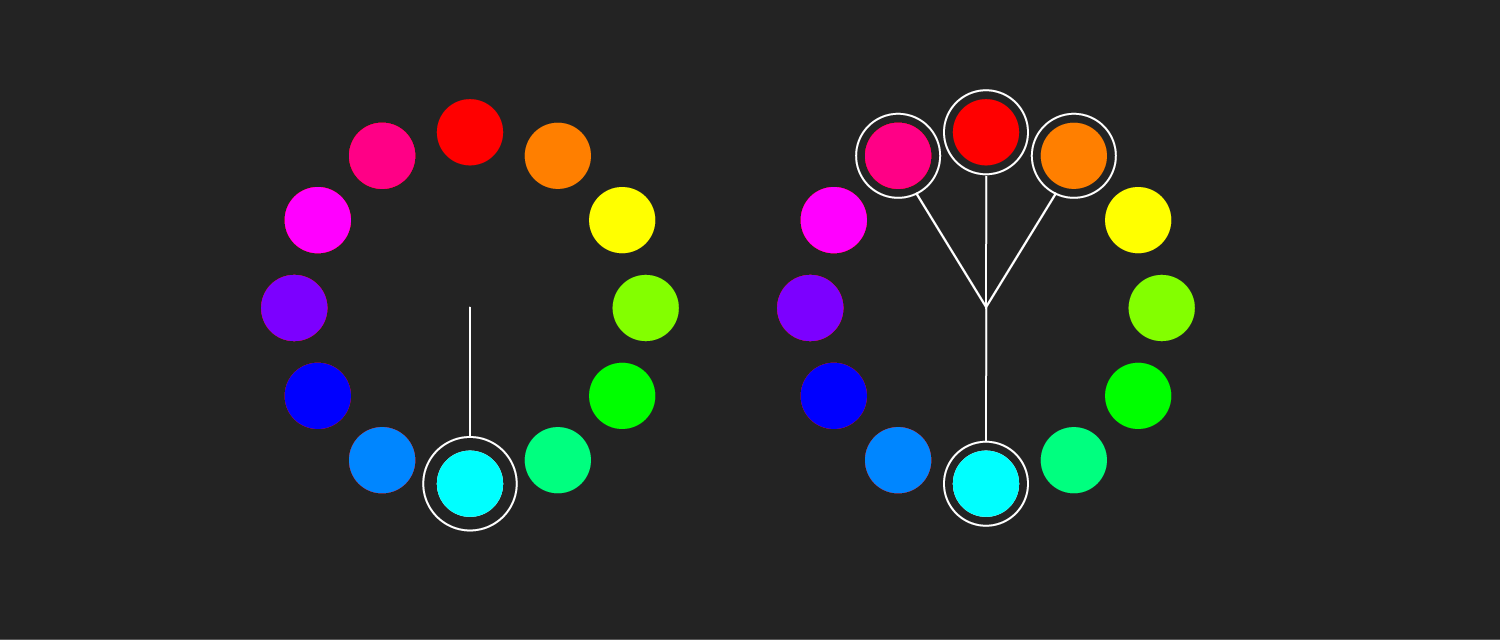
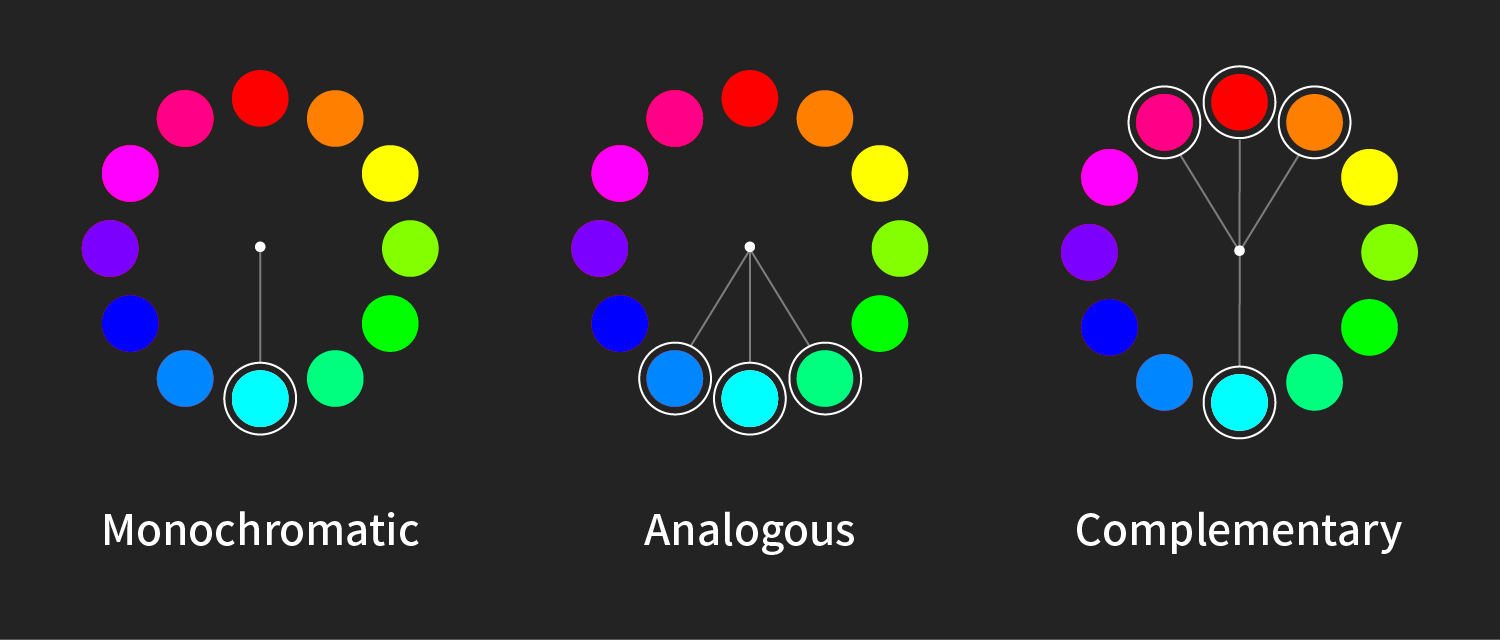
서비스 디자인 내용 업데이트

diff --git a/color.html b/color.html
@@ -55,34 +55,42 @@
             <div class="article-title">
                 색</div>
             <div class="article-h1">
-                사과가 엄청난 속도로 눈 앞을 지나가면 머릿속에는 빨간 뭔가가 지나갔다고 느낄 것입니다. 이렇듯 눈은 색을 가장 먼저 인지합니다. 그만큼 중요합니다. 색을 잘못 다루면 사용자의 머릿속에 얼룩덜룩한 인상이 남을 수도 있습니다. 보통 서비스에서 사용할 색으로 아래 네가지를 고릅니다. 이 종류만으로 디자인할 수도 있지만 페이지에서 요구되는 것들이 많아질 때 디자인이 어려워집니다. 색을 어떻게 다뤄야할까요?
+                색은 눈이 가장 빠르게 받아들이는 시각 언어입니다. 사과가 엄청난 속도로 눈 앞을 지나가면 머릿속에는 불그스름한 무언가가 지나갔다고 기억하듯이 말입니다. 서비스에서는 특정 요소를 강조하거나 다른 요소와 확실하게 구분해야 할 필요가 있을 때 사용합니다.
             </div>
             <img class="article-img" src="  ./img/design-system/color/color-main@2x.png">
 
             <div class="article-title">
+            서비스에서 사용되는 색</div>
+            <div class="article-h1">
+           서비스에서는 기본적으로 <b>주색 Primary Color, 보조색 Secondary Color, 흑백 Black, White</b> 를 사용합니다. 서비스의 성격에 따라 더 다양한 색상 조합을 정하기도 합니다. 서비스에서 사용할 색은 주로 브랜드 그래픽 시스템을 따릅니다.
+            </div>
+            <img class="article-img" src="./img/design-system/color/brand@2x.png">
+             <div class="article-h1">
+                <ul>
+                    <li><b>주색 Primary:</b> 색이 필요한 곳에 가장 많이 사용할 주요 색</li>
+                    <li><b>보조색 Secondary:</b> 특정 페이지에서 강조해야할 필요가 있을 때를 위한 색 </li>
+                    <li><b>흑백 Black&White:</b> 주로 배경과 글에 쓰이며, 브랜드 내의 가장 밝은 색과 가장 어두운 색</li>
+                </ul>
+            </div>
+            
+            <div class="article-title">
             색 정하기</div>
             <div class="article-h1">
+             주색를 정한 뒤 색상환을 기준으로 미리 사용하게될 색을 정합니다. 그래픽 디자인 툴에서 색상을 조정하는 방식에 맞추어 12색상환을 사용합니다. 
             </div>
             <img class="article-img" src="./img/design-system/color/color-pick@2x.png">
              <div class="article-h1">
                 <ul>
-                    <li><b>Primary:</b> 브랜드 컬러</li>
-                    <li><b>Secondary:</b> 브랜드 컬러만으로 해결이 안될 때를 위한 색상<br>(Primary와 확실하게 구분이 되어야함)</li>
-                    <li><b>B&W:</b> 주로 배경과 글에 쓰이며, 브랜드 내의 가장 밝은 색과 가장 어두운 색</li>
+                    <li><b>단색 Monochromatic:</b> 주색으로 사용될 색입니다.</li>
+                    <li><b>유사색 Analogous:</b> 두드러지지 않으면서 주요색과 구분이 되야할 때 사용할 색입니다. </li>
+                    <li><b>보색 Complemntary</b> 보조색으로 주요색과 확연하게 구분이 되야합니다.</li>
                 </ul>
             </div>
             
-             <div class="article-title">
-            사진에서 색 고르기</div>
-            <div class="article-h1">
-            </div>
-            <img class="article-img" src="./img/design-system/color/elemental@2x.png">
-            
-
             <div class="article-title">
                 색의 요소</div>
             <div class="article-h1">
-                색을 바꿔보기 전에 스크린에서 색이 어떻게 쓰이는지 궁금하네요. 그냥 "발광 초록"이라고 한다고 표시되는게 아니니까요. 가장 직관적으로 구분할 수 있는 것은 <a>HSB</a> 입니다. Hue(색조), Saturation(채도), Brightness(밝기)로 우리가 실제로 경험하는 색의 변화를 다루기에 가장 편한 개념입니다. 실제 코드에서는 편의를 위해 Hex와 RGBA로 작업하겠지만, 컬러 팔레트를 정할 때는 HSB로 하는게 편할 것 같네요.
+                가장 직관적으로 구분할 수 있는 것은 <a>HSB</a> 입니다. Hue(색조), Saturation(채도), Brightness(밝기)로 우리가 실제로 경험하는 색의 변화를 다루기에 가장 편한 개념입니다. 실제 코드에서는 편의를 위해 Hex와 RGBA로 작업하지만, 컬러 팔레트를 정할 때는 HSB로 하는게 편합니다.
             </div>
 
             <img class="article-img" src="  ./img/design-system/color/elemental@2x.png">
@@ -91,34 +99,34 @@
             <div class="article-title">
                 한가지 색 다양하게 쓰기</div>
             <div class="article-h1">
-                여러 색을 사용하고 싶은데 그렇다고 무지개 색을 쓸 수는 없을 것 같습니다. 변화가 너무 많은건 눈이 피곤하니까 가능한 적게 변했으면 좋겠네요. 눈에 가장 부담이 안가는 밝기를 조절해봐야겠습니다. 그래픽 툴에서 HSB 중 B를 조절해봅니다.
+                여러 색을 사용하고 싶은데 그렇다고 무지개 색을 쓰기는 어렵습니다. 색조의 변화는 눈에 많은 부담을 주기 떄문에 되도록 <b>밝기 - 채도 - 색조</b> 순서로 다양한 색을 정하는 것이 좋습니다. 먼저 눈에 가장 부담이 안가는 밝기를 조절해봅니다.
             </div>
 
             <img class="article-img" src="./img/design-system/color/variation@2x.png">
 
             <div class="article-h1">
-                명도 차이만으로도 쓸 수 있는 색이 늘어났네요! 바로 디자인에 적용해도 큰 문제는 없지만 더 자연스럽고 풍부한 느낌을 주고 싶네요. Brightness 는 조절했으니까 Hue 와 Satuation을 조절해야할 것 같네요. 완전히 다른 색상으로 느껴지지 않는 범위 안에서 두 수치를 조절해봤습니다.
+                밝기 차이만으로도 쓸 수 있는 색이 늘어났습니다. 바로 디자인에 적용해도 큰 문제는 없지만 더 자연스럽고 풍부한 느낌을 주고 싶네요. 밝기는 조절했으니까 색조와 채도를 조절해야할 것 같네요. 완전히 다른 색조으로 느껴지지 않는 범위 안에서 두 수치를 조절해봤습니다.
             </div>
 
            <img class="article-img" src="./img/design-system/color/variation2@2x.png">
 
             <div class="article-h1">
-                더 풍부한 느낌이 듭니다! Brightness는 어떻게 바꿔야 하는지 직관적으로 알겠는데 Hue와 Saturation은 색이 밝기에 어떤 영향을 끼칠까요?
+                더 풍부한 느낌이 듭니다! 밝기는 직관적으로 밝고 어둡게 하면 되는데 색조와 채도는 색의 변화에 어떤 영향을 끼칠까요?
             </div>
 
             <div class="article-title">
                 자연에서의 색 변화</div>
 
             <div class="article-h1">
-                스크린이 아닌 자연에서는 빛이 강해지면 색이 사라집니다.(사과 바로 앞에 손전등을 댔을 때를 상상해보세요.) 색은 물질에 빛이 반사되서 보이는데 눈이 구분할 수 있는 범위를 넘어 반사량이 너무 많으면 하얗게, 반사량이 너무 적으면 어둡게 보입니다. 엄청 어려워 보이는데 결론은 밝아지면 [채도 Down, 명도 Up] 어두워지면 [채도 Up, 명도 Down]인 것입니다.
+                실제 자연에서는 빛이 강해지면 물체의 채도가 약해집니다.(사과 바로 앞에 손전등을 댔을 때를 상상해보세요.) 색은 물질에 빛이 반사되서 보이는데 눈이 구분할 수 있는 범위를 넘어 반사량이 너무 많으면 하얗게, 반사량이 너무 적으면 어둡게 보입니다. 물체의 색이 밝아지면 <b>채도 감소, 밝기 증가</b> 어두워지면 <b>채도 증가, 밝기 감소</b>입니다.
             </div>
             <img class="article-img" src="./img/design-system/color/principle@2x.png">
             <img class="article-img" src="./img/design-system/color/reflection_absorption@2x.png">
 
             <div class="article-title">
-                색상 자체의 밝기</div>
+                색조 자체의 밝기</div>
             <div class="article-h1">
-                채도와 명도가 밝기에 어떻게 영향을 끼치는지는 알겠는데 색상 자체의 밝기를 알기가 쉽지 않습니다. 노란색은 밝아서 흰색 바탕에 쓰기 힘들고 파랑색은 어두워 검은 배경에 쓰기 어려운 것 정도는 알겠는데 다른 색들은 어떻게 해야할지 잘 모르겠네요. 스크린에서 보이는 색상 자체의 밝기는 어떻게 알 수 있을까요?
+                채도와 명도가 밝기에 어떻게 영향을 끼치는지는 알겠는데 색조 자체의 밝기를 알기가 쉽지 않습니다. 노란색은 밝아서 흰색 바탕에 쓰기 힘들고 파랑색은 어두워 검은 배경에 쓰기 어려운 것 정도는 알겠는데 다른 색들은 어떻게 해야할지 잘 모르겠네요. 스크린에서 보이는 색조 자체의 밝기는 어떻게 알 수 있을까요?
             </div>
 
             <img class="article-img" src="./img/design-system/color/hue-luminosity@2x.png">
@@ -139,8 +147,8 @@
             <div class="article-h1">
                 기존 색조에서 벗어나지 않으면서 다양한 변화를 주기 위한 몇가지 규칙을 알게되었습니다.<br>
                 <ul>
-                    <li>색을 밝게: CMY 계열 색상으로 움직이고 채도를 줄이고 밝기를 늘린다.</li>
-                    <li>색을 어둡게: RGB 계열 색상으로 움직이고 채도를 늘리고 밝기가 줄인다.</li>
+                    <li>색을 밝게: CMY 계열 색조으로 움직이고 채도를 줄이고 밝기를 늘린다.</li>
+                    <li>색을 어둡게: RGB 계열 색조으로 움직이고 채도를 늘리고 밝기가 줄인다.</li>
                 </ul>
             </div>
 
@@ -151,10 +159,11 @@
 
             <div class="article-h1">
                 <ul>
-                    <li>500px 영역과 50px 에서의 자극량은 매우 다릅니다.이것은 어떻게 알 수 있을까요?</li>
-                    <li>어떤 색 옆에 인접해 있느냐에 따라 색이 주는 느낌이 매우 다릅니다. 이 차이는 어떻게 알 수 있을까요?</li>
-                    <li>AR과 VR 에서는 공간감이 주된 변화일 것입니다. 공기 원근과 같은 공간과 색온도에 의한 색 변화는 어떻게 일어날까요? 이런 요소는 인터페이스에 어떤 영향을 끼칠까요?</li>
                     <li>브랜딩 영역에서 색은 어떻게 해석되고 있을까요? 사람들은 색을 어떤 의미로 받아들일까요?</li>
+                    <li>안드로이드, Mac, 윈도우마다 같은 색이 다르게 보이는 이유는 무엇일까요?</li>
+                    <li>500px 영역과 50px 에서의 자극량은 다릅니다.이것은 어떻게 알 수 있을까요?</li>
+                    <li>어떤 색 옆에 인접해 있느냐에 따라 색이 주는 느낌이 다릅니다. 이 차이는 어떻게 알 수 있을까요?</li>
+                    <li>AR과 VR 에서는 공간감이 주된 변화일 것입니다. 공기 원근과 같은 공간과 색온도에 의한 색 변화는 어떻게 일어날까요? 이런 요소는 인터페이스에 어떤 영향을 끼칠까요?</li>  
                 </ul>
             </div>
 
@@ -179,9 +188,6 @@
 
 
             </div>
-
-
-
         </div>
     </div>
 

diff --git a/typography.html b/typography.html
@@ -54,7 +54,7 @@
         <div class="article-title">
             서체</div>
         <div class="article-h1">
-            문자는 언어만 같다면 가장 빠르고 정확하게 정보를 전달할 수 있습니다. 물체나 풍경 같은 것들은 아이콘이나 그림으로도 정보를 전달하기 좋지만 행동이나 개념에 대해 전달할 때는 문자가 더 효율적입니다. 시간과 공간의 제약이 많은 스크린에서는 문자는 쓸모가 많습니다! 서비스에서 사용되는 서체는 어떻게 다뤄야할까요?
+            문자는 같은 문화권이라면 다른 시각 언어보다 구체적이고 정확하게 정보를 전달하는 언어입니다. 물체나 풍경 같은 것들은 아이콘이나 이미지로 알려주는게 좋을 수 있지만, 행동이나 개념을 알려줄 때는 문자가 더 효율적입니다. 의미 전달이 확실하기 때문에 가장 많이 쓰이는 시각 요소입니다.
         </div>
 
         <img class="article-img" src="  ./img/design-system/typography/hangul_typography@2x.png">
@@ -62,74 +62,85 @@
         <div class="article-title">
             서체 고르기</div>
         <div class="article-h1">
-            스크린에서 쓰이는 서체는 언제 어디서나 사용이 가능해야 합니다. iOS, Android, Watch, Web 등 다양한 스크린에 적용이 가능한 서체가 적절한데 현실적으로 사용가능한 한글 서체는 OS 기본 서체인 애플 SD 고딕 네오, 본고딕과 오픈 소스인 나눔 글꼴, 스포카 한 산스 정도입니다.(본고딕,Source Han Sans, Noto Sans 는 모든 같은 서체입니다.)
+            스크린에서 쓰이는 서체는 어디에나 쓸 수 있어야 합니다. 스마트폰, 스마트워치, 모니터, 티비 등 다양한 기기에 사용할 수 있어야 하며 현실적으로 사용 가능한 한글 서체는 OS 기본 서체인 <b>애플 SD 고딕 네오, 본고딕</b>과 오픈 소스인 <b>나눔 글꼴, 스포카 한 산스</b>입니다.
         </div>
 
         <img class="article-img" src="  ./img/design-system/typography/web_font@2x.png">
         <div class="article-title">
             서체 크기 정하기</div>
         <div class="article-h1">
-            기본적인 서체 크기의 종류는 Primary Heading, Secondary Heading, Body, Caption 입니다. 서체 크기는 Body를 기준으로 하며 스마트폰, 타블렛, 노트북, PC, TV, 월 스크린 등 매체에 따라 Body의 크기가 달라집니다. 또한 디바이스마다 인지될 수 있는 최소한의 사이즈가 있습니다.(아래예시는 모바일 웹 기준입니다.)
-
-            <ul>
-                <li><b>Prmary Heading:</b>29px ~ 40px (180%~220%)</li>
-                <li><b>Secondary Heading:</b>20px ~ 30px (130%~150%)</li>
-                <li><b>Body:</b>16px~20px</li>
-                <li><b>Caption:</b> 11px ~ 16px (70–80%) </li>
-                <li><b>최소 크기:</b> iOS-11pt Android-12sp Web-14px</li>
+            서체 크기는 <b>제목 Primary Heading, 부제목 Secondary Heading, 본문 Body, 부가 설명 Caption</b>입니다. 서체 크기는 본문을 기준으로 하며 스마트폰, 타블렛, 노트북, PC, TV, 월 스크린 등 매체에 따라 본문의 크기가 달라집니다. (아래 예시는 모바일 웹 기준입니다)
+            
+        </div>
+            <img class="article-img" src="./img/design-system/typography/basic@2x.png">
+        <div class="article-h1">    
+        <ul>
+                <li><b>제목 Primary Heading:</b> 29px ~ 40px (180%~220%)</li>
+                <li><b>부제목 Secondary Heading:</b> 20px ~ 30px (130%~150%)</li>
+                <li><b>본문 Body:</b>16px~20px</li>
+                <li><b>부가 설명 Caption:</b> 11px ~ 16px (70–80%) </li>
+                <li><b>최소 크기:</b> iOS-11pt . Android-12sp . Web-14px</li>
             </ul>
-
         </div>
 
-        <img class="article-img" src="  ./img/design-system/typography/basic@2x.png">
+        
         <div class="article-title">
-            긴 글 잘 읽히게 하기</div>
+            글 잘 읽히게 하기</div>
         <div class="article-h1">
-            글의 양이 적을 때는 큰 무리가 없지만 만약 여러 문단으로 구성된 글일 경우에 조절이 필요합니다.
+            글의 양이 적을 때는 여백이 부족해도 사용하는데 큰 무리가 없지만, 여러 문단으로 구성된 글이나 다양한 크기의 서체가 조합이 될 때는 여백 조절이 필요합니다.
         </div>
         <img class="article-img" src="  ./img/design-system/typography/example_no_edit@2x.png">
         <div class="article-h1">
-            기본 설정 그대로 글을 써봤는데 충분한 여백이 없어서글 이 안 읽히고 자글자글한 네모칸으로 느껴지네요. 좁은 공간에 여백을 줘야할 것 같습니다. 긴 글에서는 서체의 행간격이 중요합니다. 행간의 경우 <b>글자크기 x 1.6</b>을 권장합니다. 본문에 행간을 적용하고 제목,부가설명에도 약간의 여백을 추가했습니다.
+            그래픽 디자인 툴의 기본 설정 글을 작성하면 충분한 여백이 없어서 글을 읽기 힘듭니다. 좌-우로 눈의 움직임을 유도하기 위해 행이 선으로 보이도록 여백을 조정해야 합니다. 보통 행간의 경우 <b>글자 크기 x 1.6</b>을 권장합니다. 서체의 크기가 커진 만큼 여백을 주지 않으면 다른 요소와 구분이 모호해지기 때문에 제목, 부제목에도 약간의 여백을 추가합니다.
         </div>
         <img class="article-img" src="  ./img/design-system/typography/example_edit@2x.png">
         <div class="article-h1">
-            훨씬 읽기 편해졌네요! 본문의 행간은 18 x 1.6 = 28.8 반올림해서 29로 조절했습니다. 제목과 부제목의 간격도 리듬을 위해 같은 간격을 주었습니다. 같은 크기가 아닌 서체간의 간격은 그리드에 영향을 많이 받습니다. 여기서는 서체간의 관계만 확인하고 넘어가야겠습니다. 인쇄 매체에서는 한 줄에 들어가는 글 갯수가 65~75자가 들어가는 것을 권장하지만 폭이 좁은 스크린에서는 서체 크기가 더 중요하기 때문에 따로 조절하지 않습니다.
+            훨씬 읽기 편해졌네요! 본문의 행간은 18 x 1.6 = 28.8 반올림해서 29로 조절했습니다. 인쇄 매체에서는 한 줄에 들어가는 글 개수가 65~75자가 들어가는 것을 권장하지만 폭이 좁은 스크린에서는 서체 크기가 더 중요하기 때문에 따로 조절하지 않고 줄 바꿈을 하는 편입니다.
         </div>
 
 
         <div class="article-title">
             버튼에서 쓰이는 서체</div>
         <div class="article-h1">
-            서비스 디자인에서는 읽히는 글 이외에 단어로 구성된 다양한 종류가 있습니다. 보통 액션을 유도하는 요소에 포함된 서체로 판독성이 중요합니다. 단순히 읽기만을 위한 서체가 아니기 때문에 다른 요소(배경색,내부 공간)을 같이 생각해야합니다. 배경색의 밝고 어두움에 따라 여백과 서체 색상,서체 굵기가 달라야 하며 실제 화면에서 글자가 색에 먹히지 않는지 확인해야합니다.</div>
+            서비스 디자인에서는 서체의 배경색이 다를 경우가 많습니다. 보통 액션을 유도하는 요소에 포함된 서체로 판독성이 중요합니다. 단순히 읽기만을 위한 서체가 아니기 때문에 다른 요소(배경색, 내부 공간)을 같이 생각해야합니다. 배경색의 밝고 어두움에 따라 여백과 서체 색상, 서체 굵기가 달라야 하며 실제 화면에서 글자가 색에 먹히지 않는지 확인해야합니다.</div>
 
         <img class="article-img" src="./img/design-system/typography/color_background@2x.png">
+        
+         <div class="sidebar-title">
+                다음 질문</div>
 
-        <div class="article-title">
-            다음 질문</div>
-
-        <div class="article-h1">
-            <ul>
-                <li>한글 바탕체는 작은 글씨가 픽셀이 많이 튀어보이는데 어떻게 사용할 수 있을까요?</li>
+            <div class="article-h1">
+                <ul>
+                    <li>한글 바탕체는 작은 글씨가 픽셀이 많이 튀어보이는데 어떻게 사용할 수 있을까요?</li>
                 <li>판독성을 위한 자간 조정은 정말 필요할까요?</li>
-            </ul>
-        </div>
+                </ul>
+            </div>
+        
+        
 
+        <div class="sidebar-con">
+                <div class="sidebar-wrapper">
+                    <div class="sidebar-title">
+                        출처 및 더 자세히 보기
+                    </div>
+                    <div class="sidebar-outlink" onclick="location.href='https://medium.springboard.com/the-guide-to-getting-typography-right-in-digital-design-bb61214ff3ad';">
+                        <img class="sidebar-icon" src="./img/icon/icon_outlink.svg">Getting Typography Right in Digital Design - Nick Babich
+                    </div>
 
-        <div class="article-title">
-            참고</div>
-        <div class="article-h1">
-            <a class="outlink" href="https://medium.springboard.com/the-guide-to-getting-typography-right-in-digital-design-bb61214ff3ad">Getting Typography Right in Digital Design by Nick Babich
-        </a><br>
-            <a class="outlink" href="https://prowebtype.com/seeing-typographic-details/">Seeing Typographic Details
-        </a><br>
-            <a class="outlink" href="https://medium.com/@lukejones/3-typography-tips-for-a-more-comfortable-read-fed478affa8d">3 Typography Tips For A More Comfortable Read by Luke Jones
-        </a><br>
-            <a class="outlink" href="https://uxplanet.org/mobile-typography-8-steps-toward-powerful-ui-deaf205274c5">Mobile Typography: 8 Steps Toward Powerful UI. by Tubik Studio
-        </a><br>
-            <a class="outlink" href="http://bradfrost.com/blog/post/atomic-web-design/">Atomic Design by Bradfrost
-        </a>
+                    <div class="sidebar-outlink" onclick="location.href='https://prowebtype.com/seeing-typographic-details/';">
+                        <img class="sidebar-icon" src="./img/icon/icon_outlink.svg">Seeing Typographic Details
+                    </div>
+                     <div class="sidebar-outlink" onclick="location.href=' https://medium.com/@lukejones/3-typography-tips-for-a-more-comfortable-read-fed478affa8d';">
+                        <img class="sidebar-icon" src="./img/icon/icon_outlink.svg">3 Typography Tips For A More Comfortable Read - Luke Jones
+                    </div>
+                    
+                    <div class="sidebar-outlink" onclick="location.href='https://uxplanet.org/mobile-typography-8-steps-toward-powerful-ui-deaf205274c5';">
+                        <img class="sidebar-icon" src="./img/icon/icon_outlink.svg">Mobile Typography: 8 Steps Toward Powerful UI. - Tubik Studio
+                    </div>
 
-        </div>
+                </div>
+
+            </div>
   </div>
     </div>
 

diff --git a/icon.html b/icon.html
@@ -49,7 +49,7 @@
 <body>
     <div class="se-pre-con"></div>
     <div id="nav"></div>
-    
+
     <div class="article-outer">
         <div id="submenu-theory"></div>
         <div class="article-container">
@@ -57,7 +57,7 @@
             <div class="article-title">
                 아이콘</div>
             <div class="article-h1">
-                디자이너가 사랑하는 아이콘! 당장 드리블이나 비헨스에 가도 훌륭한 아이콘들을 볼 수 있습니다. 서비스 디자인에서 쓰이는 아이콘은 어떨까요? 웹에서 스마트폰으로 넘어오면서 비좁은 스크린에 정보를 표시하기위해 공간을 절약할 수 있는 아이콘이 많이 쓰이고 있습니다.
+                아이콘은 다른 언어보다 보편적으로 이해할 수 있는 시각 언어입니다. 시각적으로 실험할 수 있는 방법이 많아 드리블이나 비헨스과 같은 디자인 커뮤니티에서 훌륭한 아이콘들을 확인할 수 있습니다. 기능적으로는 스마트폰의 비좁은 스크린에서 많은 공간을 절약할 수 있어 많이 쓰이고 있습니다.
             </div>
 
             <img class="article-img" src="./img/design-system/icon/main@2x.png">
@@ -65,16 +65,16 @@
             <div class="article-title">
                 다들 아는 아이콘</div>
             <div class="article-h1">
-                다양한 환경에서 반복적으로 사용되어 언어가 된 아이콘들이 있습니다. 어떤 맥락에 있어도 거의 단어를 읽듯이 받아들여지지만 OS에 따라 같은 의미지만 다른모양인 경우도 있습니다.
+                다양한 환경에서 반복적으로 사용되어 누구나 이해할 수 있는 아이콘이 있습니다. 스크린의 어떤 맥락에 있어도 사용자는 지금까지 이해한대로 습관처럼 사용합니다. 사용자가 익숙하게 사용할 수 있도록 OS 에서 제공하는 아이콘을 사용하는 것이 좋습니다. 만약 커스텀 아이콘을 제작한다해도 OS 아이콘의 규칙을 따르는 편이 좋습니다.
             </div>
 
             <img class="article-img" src="./img/design-system/icon/icon_familiar@2x.png">
 
 
             <div class="article-title">
-                처음보는 아이콘</div>
+                처음 보는 아이콘</div>
             <div class="article-h1">
-                새로운 의미를 표현해야할 때 추상적인 아이콘이 필요합니다. 서비스를 대표하는 심볼을 만들 때나 스크린안에 새로운 기능을 제공할 때 필요합니다. 보통 실제 모양을 본따 표현합니다.
+                되도록 다들 아는 아이콘을 사용하는 것이 좋지만 새로운 기능을 표현해야할 때가 있습니다. 처음 보더라도 이해할 수 있게 보통 실제 모양을 본따 제작하며 실체가 없는 개념일 경우 추상적인 의미를 담아 제작하기도 합니다.
             </div>
             <img class="article-img" src="./img/design-system/icon/icon_describe@2x.png">
 
@@ -82,34 +82,43 @@
             <div class="article-title">
                 아이콘 만들기</div>
             <div class="article-h1">
-                벡터로 제작 - 픽셀 퍼펙션을 확인 한당. 번진다. 안티 얼라이언싱하면 흐려진다. 더 상세한 규칙은 Material Design 에서 확인할 수 있습니다. esp= 인쇄용 make - psds sketch ai export - png svg
+                아이콘은 다양한 스크린에 알맞게 크기를 조절할 수 있게 벡터 Vector로 제작합니다. 보통 기기의 시스템 부하를 줄이기 위해 각 스크린에 알맞는 png 이미지를 사용합니다. 현재는 기기의 스펙이 높아지면서 코드로 이미지를 구현하는 svg를 사용하기도 합니다.
             </div>
-
-            <img class="article-img" src="./img/design-system/icon/icon_padding@2x.png">
-
+            <img class="article-img" src="./img/design-system/icon/icon_filetype@2x.png">
+            <div class="article-title">
+                그리드</div>
+            <div class="article-h1">
+                24pt 정사각형을 기준으로 제작되며 시각 보정을 고려하여 제작합니다. 그래픽 디자인 툴에서 100pt 크기의 원을 내보냈을 때 끝 부분이 잘릴 수 있기 때문에 원본 파일에 최소한의 여백을 주어야합니다.
+            </div>
+            <img class="article-img" src="./img/design-system/icon/icon_grid@2x.png">
 
             <div class="article-title">
-                크기</div>
+                방식</div>
             <div class="article-h1">
-                4의 배수가 편함 16 24 32 64 128 256 512
-            </div>
-
-            <div class="article-title">
-                표현 방식</div>
-            <div class="article-h1">
-                Line Solid Shade Cutting
+                아이콘을 표현하는 방식은 <b>선 Line, 면 Solid</b>이 있습니다. 두 방식 모두 배경색에 따라 동일하게 보이지 않기 때문에 시각보정에 대해 고려해 제작합니다. 앱 내에서 쓰이는 아이콘의 경우 표현되는 영역이 좁기 때문에 평면으로 느껴지는 것이 좋습니다. 평면으로 보이는 겹침을 표현하는 방식으로 자르기와 음영 처리가 있습니다.
             </div>
 
             <img class="article-img" src="./img/design-system/icon/icon_kind@2x.png">
 
 
-            <div class="article-title">
-                참고</div>
-            <div class="article-h1">
+            <div class="sidebar-con">
+                <div class="sidebar-wrapper">
+                    <div class="sidebar-title">
+                        출처 및 더 자세히 보기
+                    </div>
+                    <div class="sidebar-outlink" onclick="location.href='https://brunch.co.kr/@ultra0034/6';">
+                        <img class="sidebar-icon" src="./img/icon/icon_outlink.svg">좋은 아이콘을 만드는 6단계 - 이끼마우스
+                    </div>
+                    
+                     <div class="sidebar-outlink" onclick="location.href='https://material.io/icons/';">
+                        <img class="sidebar-icon" src="./img/icon/icon_outlink.svg"> Google Material Design - Icons
+                    </div>
+                     <div class="sidebar-outlink" onclick="location.href='https://developer.apple.com/design/resources/#ios-apps';">
+                        <img class="sidebar-icon" src="./img/icon/icon_outlink.svg"> Apple Human Interface Guidelines - iOS Apps Resources
+                    </div>
+                </div>
 
-                <a class="outlink" href="http://bradfrost.com/blog/post/atomic-web-design/">
-               Atomic Design by Bradfrost
-           </a>
+
             </div>
         </div>
     </div>

diff --git a/css/style.css b/css/style.css
@@ -653,7 +653,7 @@ h2 {
 
     float: left;
     width: 750px;
-    padding: 40px 0px 40px 0px;
+    padding: 20px 0px 40px 0px;
 }
 
 
